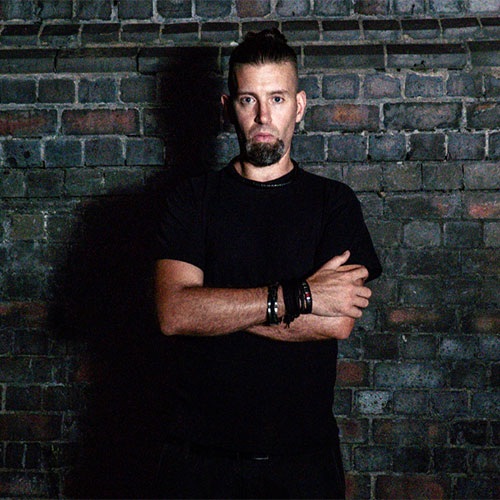
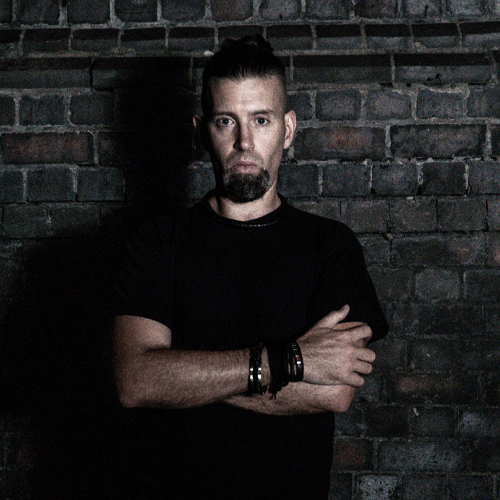
Other CSS fixings and pics updated

diff --git a/src/sections/Bio.jsx b/src/sections/Bio.jsx
@@ -1,10 +1,13 @@
 const Bio = () => {
   return (
     <>
-      <div id="bio" className="mt-20 flex flex-col items-center justify-center py-20">
-        <div className="mx-auto max-w-[900px] px-32 leading-8 sm:px-10 md:text-lg xl:max-w-[1200px]">
-          <img className="w-full py-10" src="static/images/banner.jpg" />
-          <div className="px-5 leading-loose lg:mt-20 lg:px-20 [&_p]:pb-5 last:[&_p]:pb-0">
+      <div
+        id="bio"
+        className="mx-44 mt-20 flex flex-col items-center justify-center py-10 sm:mx-auto lg:max-w-[1100px]"
+      >
+        <div className="mx-auto leading-8 sm:px-10 md:text-lg">
+          <img className="w-full py-10" src="static/images/banner.jpg" alt="FOS" />
+          <div className="leading-loose lg:mt-20 [&_p]:pb-5 last:[&_p]:pb-0">
             <p>
               Fall of Saturn was conceived on an overcast Sunday afternoon in the summer of 2019 by
               Val (drums) and Will (bass), who shared a vision of creating a new groove metal

diff --git a/src/sections/Pics.jsx b/src/sections/Pics.jsx
@@ -12,7 +12,7 @@ const Pics = () => {
           <img src="static/images/linas.jpg" alt="linas" />
         </div>
         <div className="flex flex-col items-center justify-center">
-          <h3 className="py-5">Will - Base</h3>
+          <h3 className="py-5">Will - Bass</h3>
           <img src="static/images/will.jpg" alt="will" />
         </div>
         <div className="flex flex-col items-center justify-center">

diff --git a/src/main.jsx b/src/main.jsx
@@ -9,7 +9,7 @@ export default function App() {
     <>
       <Home />
       <Layout />
-      <Modal />
+      {/* <Modal /> */}
     </>
   );
 }
